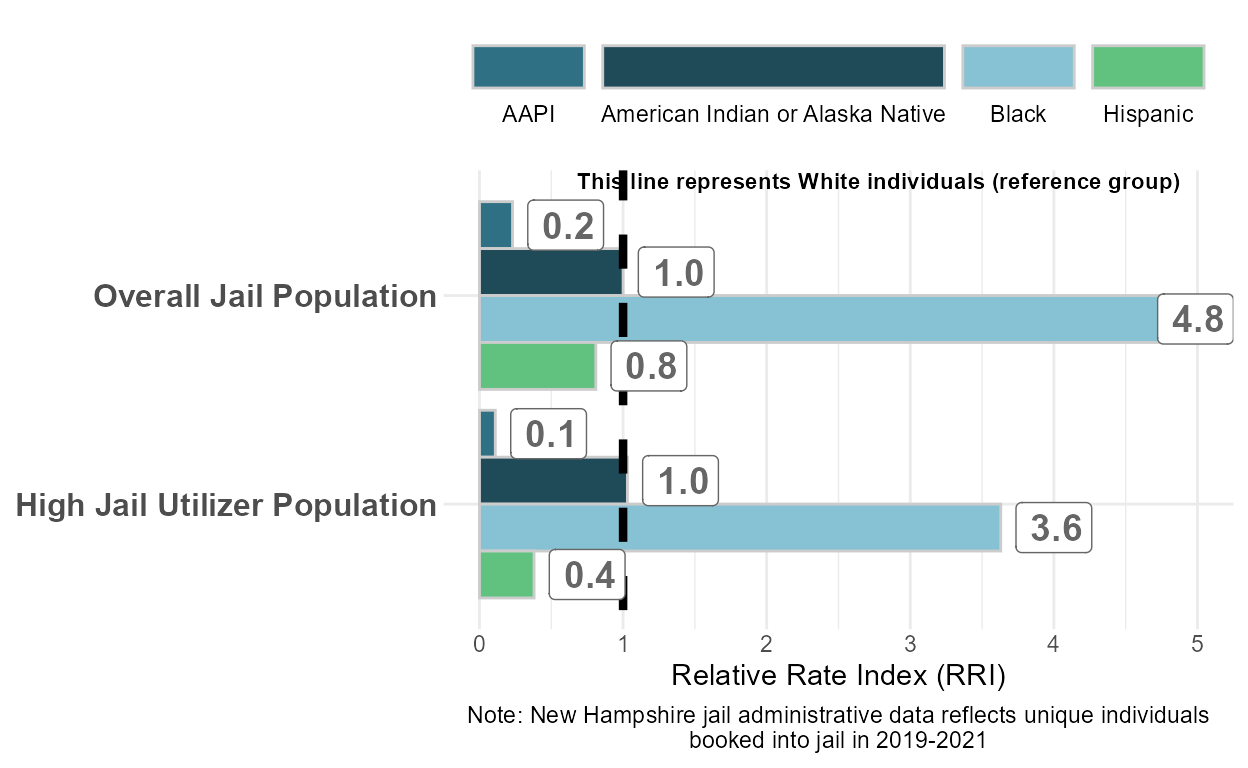
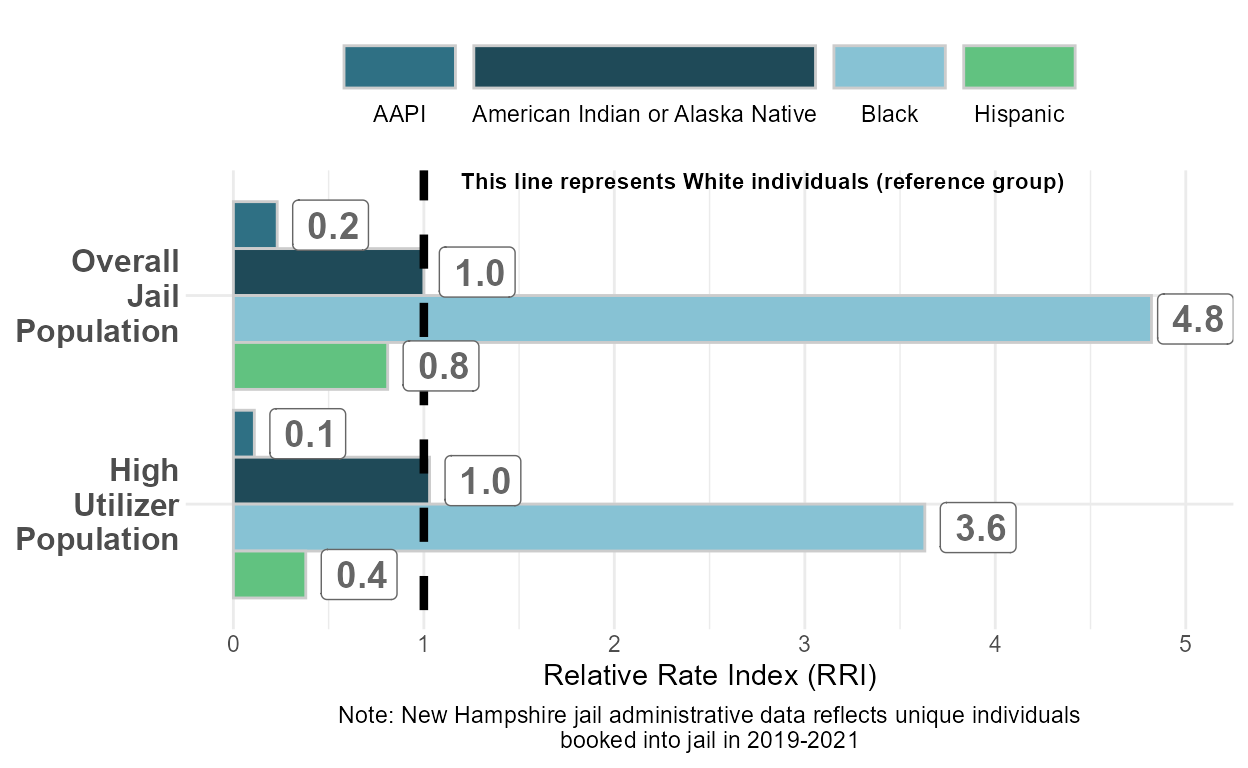
edits to rri visual

diff --git a/_site/nh_racial_disparities.html b/_site/nh_racial_disparities.html
@@ -2527,6 +2527,7 @@ population</p></li>
 <li><p>Frequency table of race/ethnicity for jail population (overall,
 PC/Non-PC bookings, and high jail utilizers)</p></li>
 </ul>
+<p><br></p>
 <p><em>Relative Rate Index (RRI)</em></p>
 <p>The Relative Rate Index (RRI) provides a measure of disparity in
 outcomes for different racial and ethnic groups by comparing the rates
@@ -2562,7 +2563,7 @@ that we have not run any regression models to account for additional
 individual-level factors such as gender, age, offense, or criminal
 history). The numbers will look a little different than what is
 presented later because we have rounded in this example.</p>
-<div class="layout-chunk" data-layout="l-body-outset">
+<div class="layout-chunk" data-layout="l-screen-inset">
 <p><img src="img/nh_rri_example_viz.PNG" width="908" /></p>
 </div>
 <p><br><br></p>
